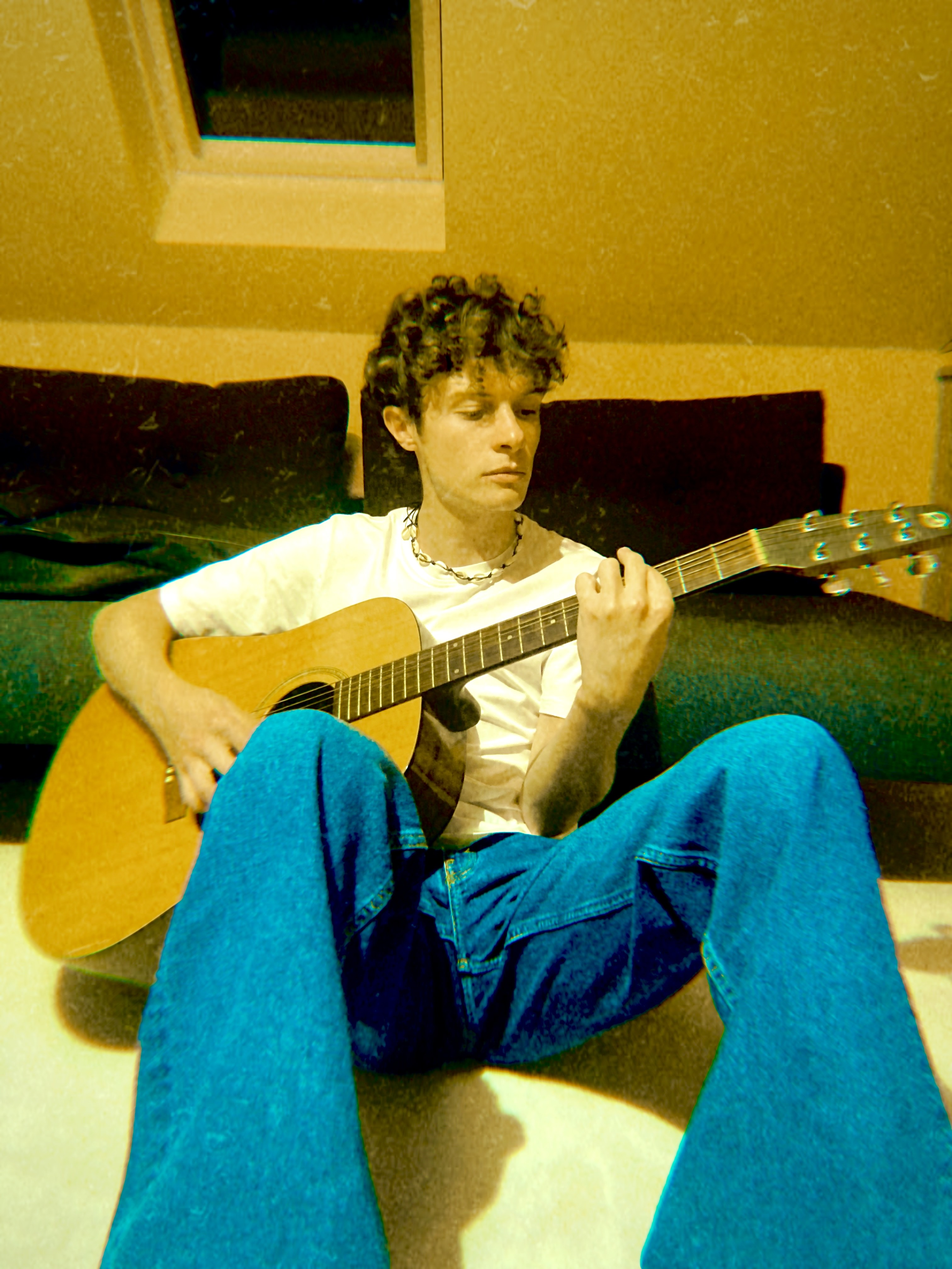
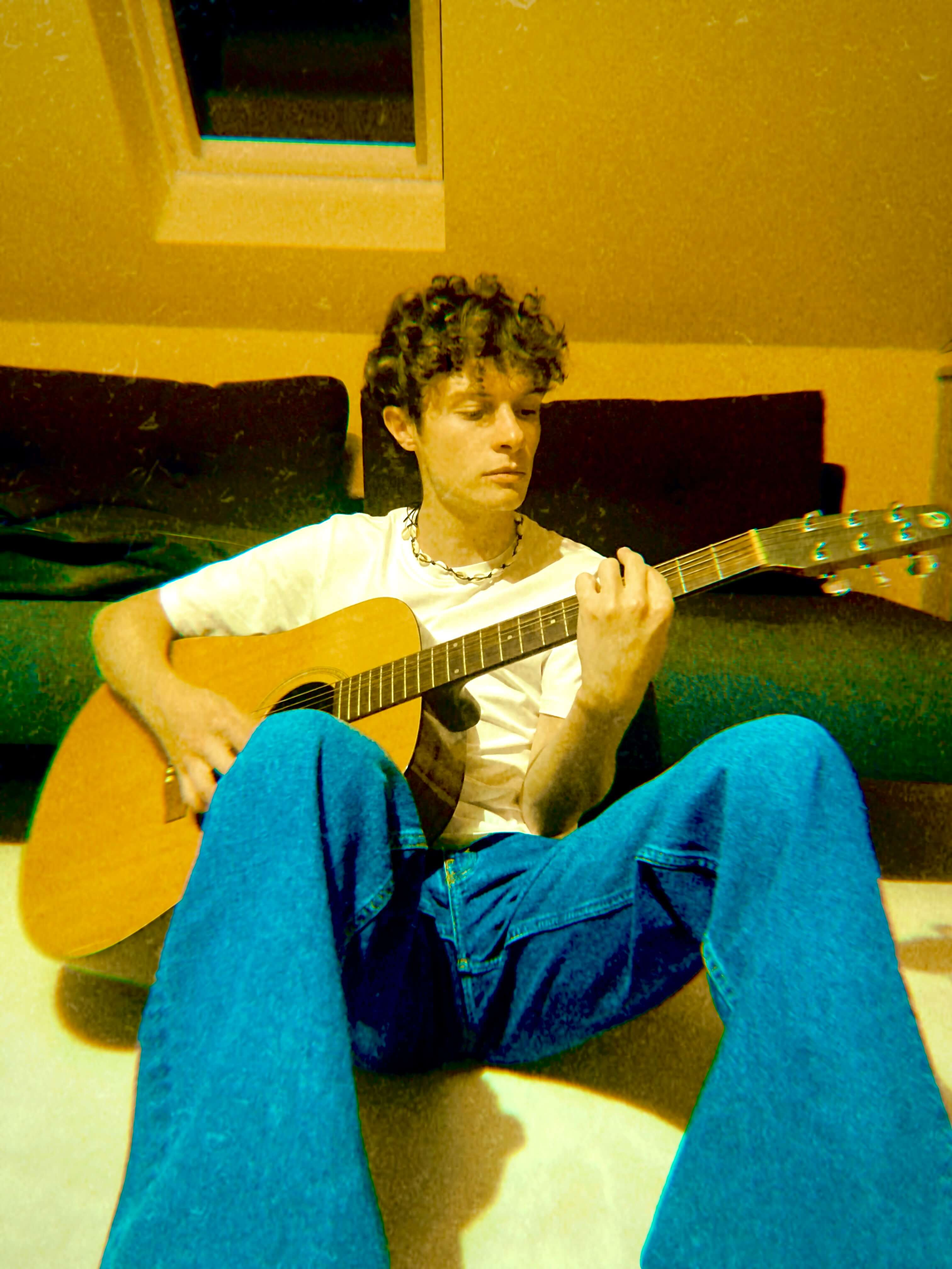
Compress Images and fix release date

diff --git a/index.html b/index.html
@@ -39,7 +39,7 @@
     <!-- SECTIONS -->
     <div id="latest-single" class="page">
       <h2>OPEN MY EYES</h2>
-      <a href="spotify:album:7i4nqSu22IDtVnNqTrFk2f" target="_blank" class="link"><p><u>LISTEN NOW</u></p></a>
+      <a href="spotify:album:7i4nqSu22IDtVnNqTrFk2f" target="_blank" class="link"><p><u>OUT 03/03</u></p></a>
       <a href="spotify:album:7i4nqSu22IDtVnNqTrFk2f" target="_blank"><img id="open-my-eyes-img" src="images/open-my-eyes.jpeg" alt=""></a>
     </div>
 
